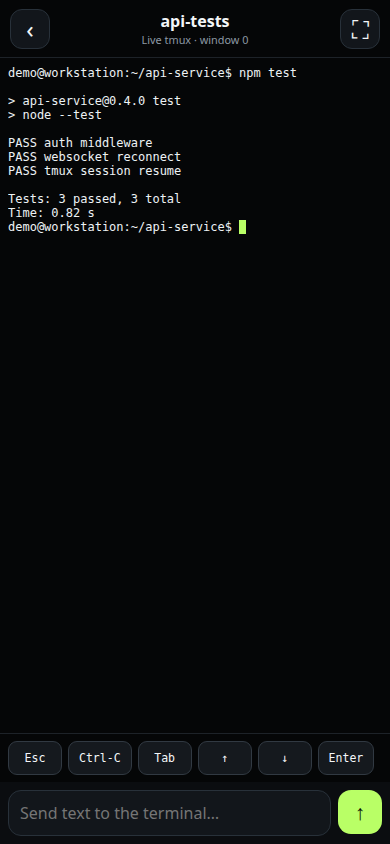
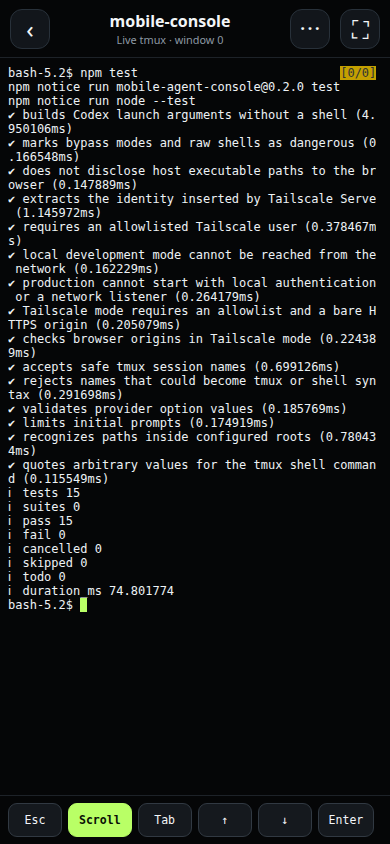
add mobile tmux controls (#9)

diff --git a/public/app.js b/public/app.js
@@ -1,5 +1,5 @@
 const $ = (selector) => document.querySelector(selector);
-const state = { config: null, sessions: [], socket: null, terminal: null, fit: null, active: null };
+const state = { config: null, sessions: [], socket: null, terminal: null, fit: null, active: null, copyMode: false };
 
 async function request(url, options = {}) {
   const response = await fetch(url, { headers: { "Content-Type": "application/json", ...(options.headers || {}) }, ...options });
@@ -102,6 +102,36 @@ function send(data) {
   if (state.socket?.readyState === WebSocket.OPEN) state.socket.send(JSON.stringify({ type: "input", data }));
 }
 
+function sendTmuxKey(key) {
+  send(`\u0002${key}`);
+  if (key === "[") setCopyMode(true);
+  state.terminal?.focus();
+}
+
+function setCopyMode(active) {
+  state.copyMode = active;
+  const button = $("#tmux-copy");
+  button.classList.toggle("active", active);
+  button.setAttribute("aria-pressed", String(active));
+  button.title = active ? "Exit tmux copy mode (q)" : "Enter tmux copy mode (Ctrl-B then [)";
+}
+
+function toggleCopyMode() {
+  if (state.copyMode) {
+    send("q");
+    setCopyMode(false);
+  } else {
+    sendTmuxKey("[");
+  }
+}
+
+function closeTmuxControls() {
+  $("#tmux-dialog").close();
+  $("#tmux-error").textContent = "";
+  $("#tmux-key").value = "";
+  state.terminal?.focus();
+}
+
 function fitTerminal() {
   if (!state.fit || !state.socket) return;
   state.fit.fit();
@@ -115,13 +145,25 @@ function closeTerminal() {
   state.terminal = null;
   state.fit = null;
   state.active = null;
+  setCopyMode(false);
+  setComposerVisible(false);
   showPage("dashboard");
   refreshSessions();
+}
+
+function setComposerVisible(visible) {
+  $("#composer").classList.toggle("hidden", !visible);
+  $("#composer-toggle").setAttribute("aria-expanded", String(visible));
+  $("#composer-toggle").querySelector("span").textContent = visible ? "Hide" : "Show";
+  setTimeout(fitTerminal, 0);
+  if (visible) $("#message").focus();
+  else state.terminal?.focus();
 }
 
 function openTerminal(id, name) {
   showPage("terminal-page");
   state.active = name;
+  setCopyMode(false);
   $("#terminal-name").textContent = name;
   $("#terminal-state").textContent = "Connecting…";
   $("#terminal").replaceChildren();
@@ -200,7 +242,32 @@ $("#directory-select").addEventListener("click", () => { $("#session-path").valu
 $("#terminal-back").addEventListener("click", closeTerminal);
 $("#terminal-fit").addEventListener("click", fitTerminal);
 window.addEventListener("resize", () => setTimeout(fitTerminal, 80));
-document.querySelectorAll(".key-row button").forEach((button) => button.addEventListener("click", () => send(JSON.parse(`"${button.dataset.key}"`))));
+document.querySelectorAll("button[data-key]").forEach((button) => button.addEventListener("click", () => {
+  send(JSON.parse(`"${button.dataset.key}"`));
+  if (button.closest("dialog")) closeTmuxControls();
+}));
+$("#tmux-copy").addEventListener("click", toggleCopyMode);
+$("#tmux-controls").addEventListener("click", () => { $("#tmux-dialog").showModal(); $("#tmux-key").focus(); });
+$("#composer-toggle").addEventListener("click", () => {
+  const visible = $("#composer").classList.contains("hidden");
+  closeTmuxControls();
+  setComposerVisible(visible);
+});
+$("#tmux-close").addEventListener("click", closeTmuxControls);
+document.querySelectorAll("[data-tmux-key]").forEach((button) => button.addEventListener("click", () => {
+  sendTmuxKey(button.dataset.tmuxKey);
+  closeTmuxControls();
+}));
+$("#tmux-custom-form").addEventListener("submit", (event) => {
+  event.preventDefault();
+  const key = $("#tmux-key").value;
+  if (!/^[\x20-\x7e]$/.test(key)) {
+    $("#tmux-error").textContent = "Enter one printable key.";
+    return;
+  }
+  sendTmuxKey(key);
+  closeTmuxControls();
+});
 $("#composer").addEventListener("submit", (event) => {
   event.preventDefault();
   const field = $("#message");

diff --git a/public/index.html b/public/index.html
@@ -70,18 +70,19 @@
     <header class="terminal-header">
       <button id="terminal-back" class="icon-button" aria-label="Back">‹</button>
       <div class="terminal-title"><strong id="terminal-name"></strong><span id="terminal-state">Connecting…</span></div>
+      <button id="tmux-controls" class="icon-button" aria-label="Terminal controls">⋯</button>
       <button id="terminal-fit" class="icon-button" aria-label="Fit terminal">⛶</button>
     </header>
     <div id="terminal" aria-label="Interactive terminal"></div>
     <div class="key-row" aria-label="Terminal control keys">
       <button data-key="\u001b">Esc</button>
-      <button data-key="\u0003">Ctrl-C</button>
+      <button id="tmux-copy" aria-pressed="false" title="Enter tmux copy mode (Ctrl-B then [)">Scroll</button>
       <button data-key="\t">Tab</button>
       <button data-key="\u001b[A">↑</button>
       <button data-key="\u001b[B">↓</button>
       <button data-key="\r">Enter</button>
     </div>
-    <form id="composer" class="composer">
+    <form id="composer" class="composer hidden">
       <textarea id="message" rows="1" placeholder="Send text to the terminal…"></textarea>
       <button class="send" type="submit" aria-label="Send">↑</button>
     </form>
@@ -92,6 +93,34 @@
     <p id="directory-current" class="path"></p>
     <div id="directory-list" class="directory-list"></div>
     <button id="directory-select" class="primary full">Use this folder</button>
+  </dialog>
+
+  <dialog id="tmux-dialog" aria-labelledby="tmux-title">
+    <header><h2 id="tmux-title">Terminal controls</h2><button id="tmux-close" class="icon-button" aria-label="Close">×</button></header>
+    <p class="control-heading">Terminal keys</p>
+    <div class="tmux-actions">
+      <button data-key="\u0003"><strong>Interrupt</strong><span>Ctrl-C</span></button>
+      <button data-key="\u001b[5~"><strong>Page up</strong><span>PgUp</span></button>
+      <button data-key="\u001b[6~"><strong>Page down</strong><span>PgDn</span></button>
+      <button id="composer-toggle" aria-controls="composer" aria-expanded="false"><strong>Text composer</strong><span>Show</span></button>
+    </div>
+    <p class="control-heading">tmux prefix commands</p>
+    <p class="dialog-copy">These send <kbd>Ctrl-B</kbd> followed by the shown key.</p>
+    <div class="tmux-actions">
+      <button data-tmux-key=":"><strong>Command prompt</strong><span>:</span></button>
+      <button data-tmux-key="w"><strong>Windows</strong><span>w</span></button>
+      <button data-tmux-key="p"><strong>Previous window</strong><span>p</span></button>
+      <button data-tmux-key="n"><strong>Next window</strong><span>n</span></button>
+      <button data-tmux-key="z"><strong>Zoom pane</strong><span>z</span></button>
+    </div>
+    <form id="tmux-custom-form" class="tmux-custom">
+      <label for="tmux-key">Any printable Ctrl-B key</label>
+      <div class="input-action">
+        <input id="tmux-key" maxlength="1" pattern="[ -~]" required autocomplete="off" autocapitalize="off" spellcheck="false" aria-describedby="tmux-error">
+        <button class="primary" type="submit">Send</button>
+      </div>
+      <p id="tmux-error" class="error" role="alert"></p>
+    </form>
   </dialog>
 
   <template id="empty-template">

diff --git a/public/styles.css b/public/styles.css
@@ -70,6 +70,7 @@ textarea { resize: vertical; }
 #terminal .xterm { height: 100%; }
 .key-row { display: flex; gap: 6px; overflow-x: auto; padding: 7px 8px; border-top: 1px solid #1d2228; }
 .key-row button { min-width: 54px; border: 1px solid #313942; background: #15191e; border-radius: 9px; padding: 9px 10px; font: .72rem ui-monospace, monospace; }
+.key-row button.active { color: #0a1005; border-color: var(--accent); background: var(--accent); font-weight: 800; }
 .composer { padding: 8px 8px calc(8px + env(safe-area-inset-bottom)); display: grid; grid-template-columns: 1fr 44px; gap: 7px; background: #0b0d10; }
 .composer textarea { min-height: 44px; max-height: 132px; resize: none; padding: 11px; }
 .send { width: 44px; height: 44px; border: 0; border-radius: 13px; background: var(--accent); color: #0a1005; font-size: 1.3rem; font-weight: 900; }
@@ -80,6 +81,15 @@ dialog h2 { margin: 0; font-size: 1.1rem; }
 .path { color: var(--muted); font: .7rem/1.4 ui-monospace, monospace; overflow-wrap: anywhere; }
 .directory-list { display: grid; gap: 7px; max-height: 52dvh; overflow: auto; margin: 14px 0; }
 .directory-list button { text-align: left; border: 1px solid var(--line); background: var(--panel-2); border-radius: 11px; padding: 12px; }
+.dialog-copy { color: var(--muted); font-size: .82rem; line-height: 1.5; }
+.control-heading { margin: 18px 0 8px; color: var(--muted); font-size: .68rem; font-weight: 800; letter-spacing: .1em; text-transform: uppercase; }
+kbd { border: 1px solid #3c4650; border-bottom-width: 2px; border-radius: 5px; background: #0c0f12; padding: 1px 5px; font: .72rem ui-monospace, monospace; }
+.tmux-actions { display: grid; grid-template-columns: repeat(2, minmax(0, 1fr)); gap: 8px; margin: 15px 0 18px; }
+.tmux-actions button { display: flex; align-items: center; justify-content: space-between; gap: 8px; min-width: 0; border: 1px solid var(--line); background: var(--panel-2); border-radius: 11px; padding: 12px; text-align: left; }
+.tmux-actions strong { overflow: hidden; text-overflow: ellipsis; white-space: nowrap; font-size: .78rem; }
+.tmux-actions span { flex: 0 0 auto; min-width: 25px; border: 1px solid #3c4650; border-radius: 6px; background: #0c0f12; padding: 3px 6px; text-align: center; font: .72rem ui-monospace, monospace; }
+.tmux-custom { border-top: 1px solid var(--line); padding-top: 16px; }
+.tmux-custom .error { margin-top: 7px; }
 @media (min-width: 700px) {
   .session-list { grid-template-columns: repeat(2, 1fr); }
   .session-card p { max-width: 280px; }

diff --git a/README.md b/README.md
@@ -30,8 +30,15 @@ The console can:
 
 - list, open, create, and stop named tmux sessions;
 - launch an agent in a selected project with a model and permission profile;
-- stream the real terminal UI through xterm.js and WebSockets; and
-- send text, Escape, Ctrl-C, Tab, arrows, Enter, and terminal resize events.
+- stream the real terminal UI through xterm.js and WebSockets;
+- type directly in the terminal or open an optional text composer; and
+- scroll through tmux history, with quick copy-mode controls and common or
+  custom `Ctrl-B` commands.
+
+The active-session bar stays compact: tap **Scroll** to enter tmux copy mode
+(`Ctrl-B [`), scroll with the arrow keys or Page Up/Down in the controls menu,
+then tap **Scroll** again to exit with `q`. The **⋯** menu also holds Ctrl-C,
+more tmux commands, and the optional text composer.
 
 > [!CAUTION]
 > This is interactive shell access as the Unix user running the service. Use
